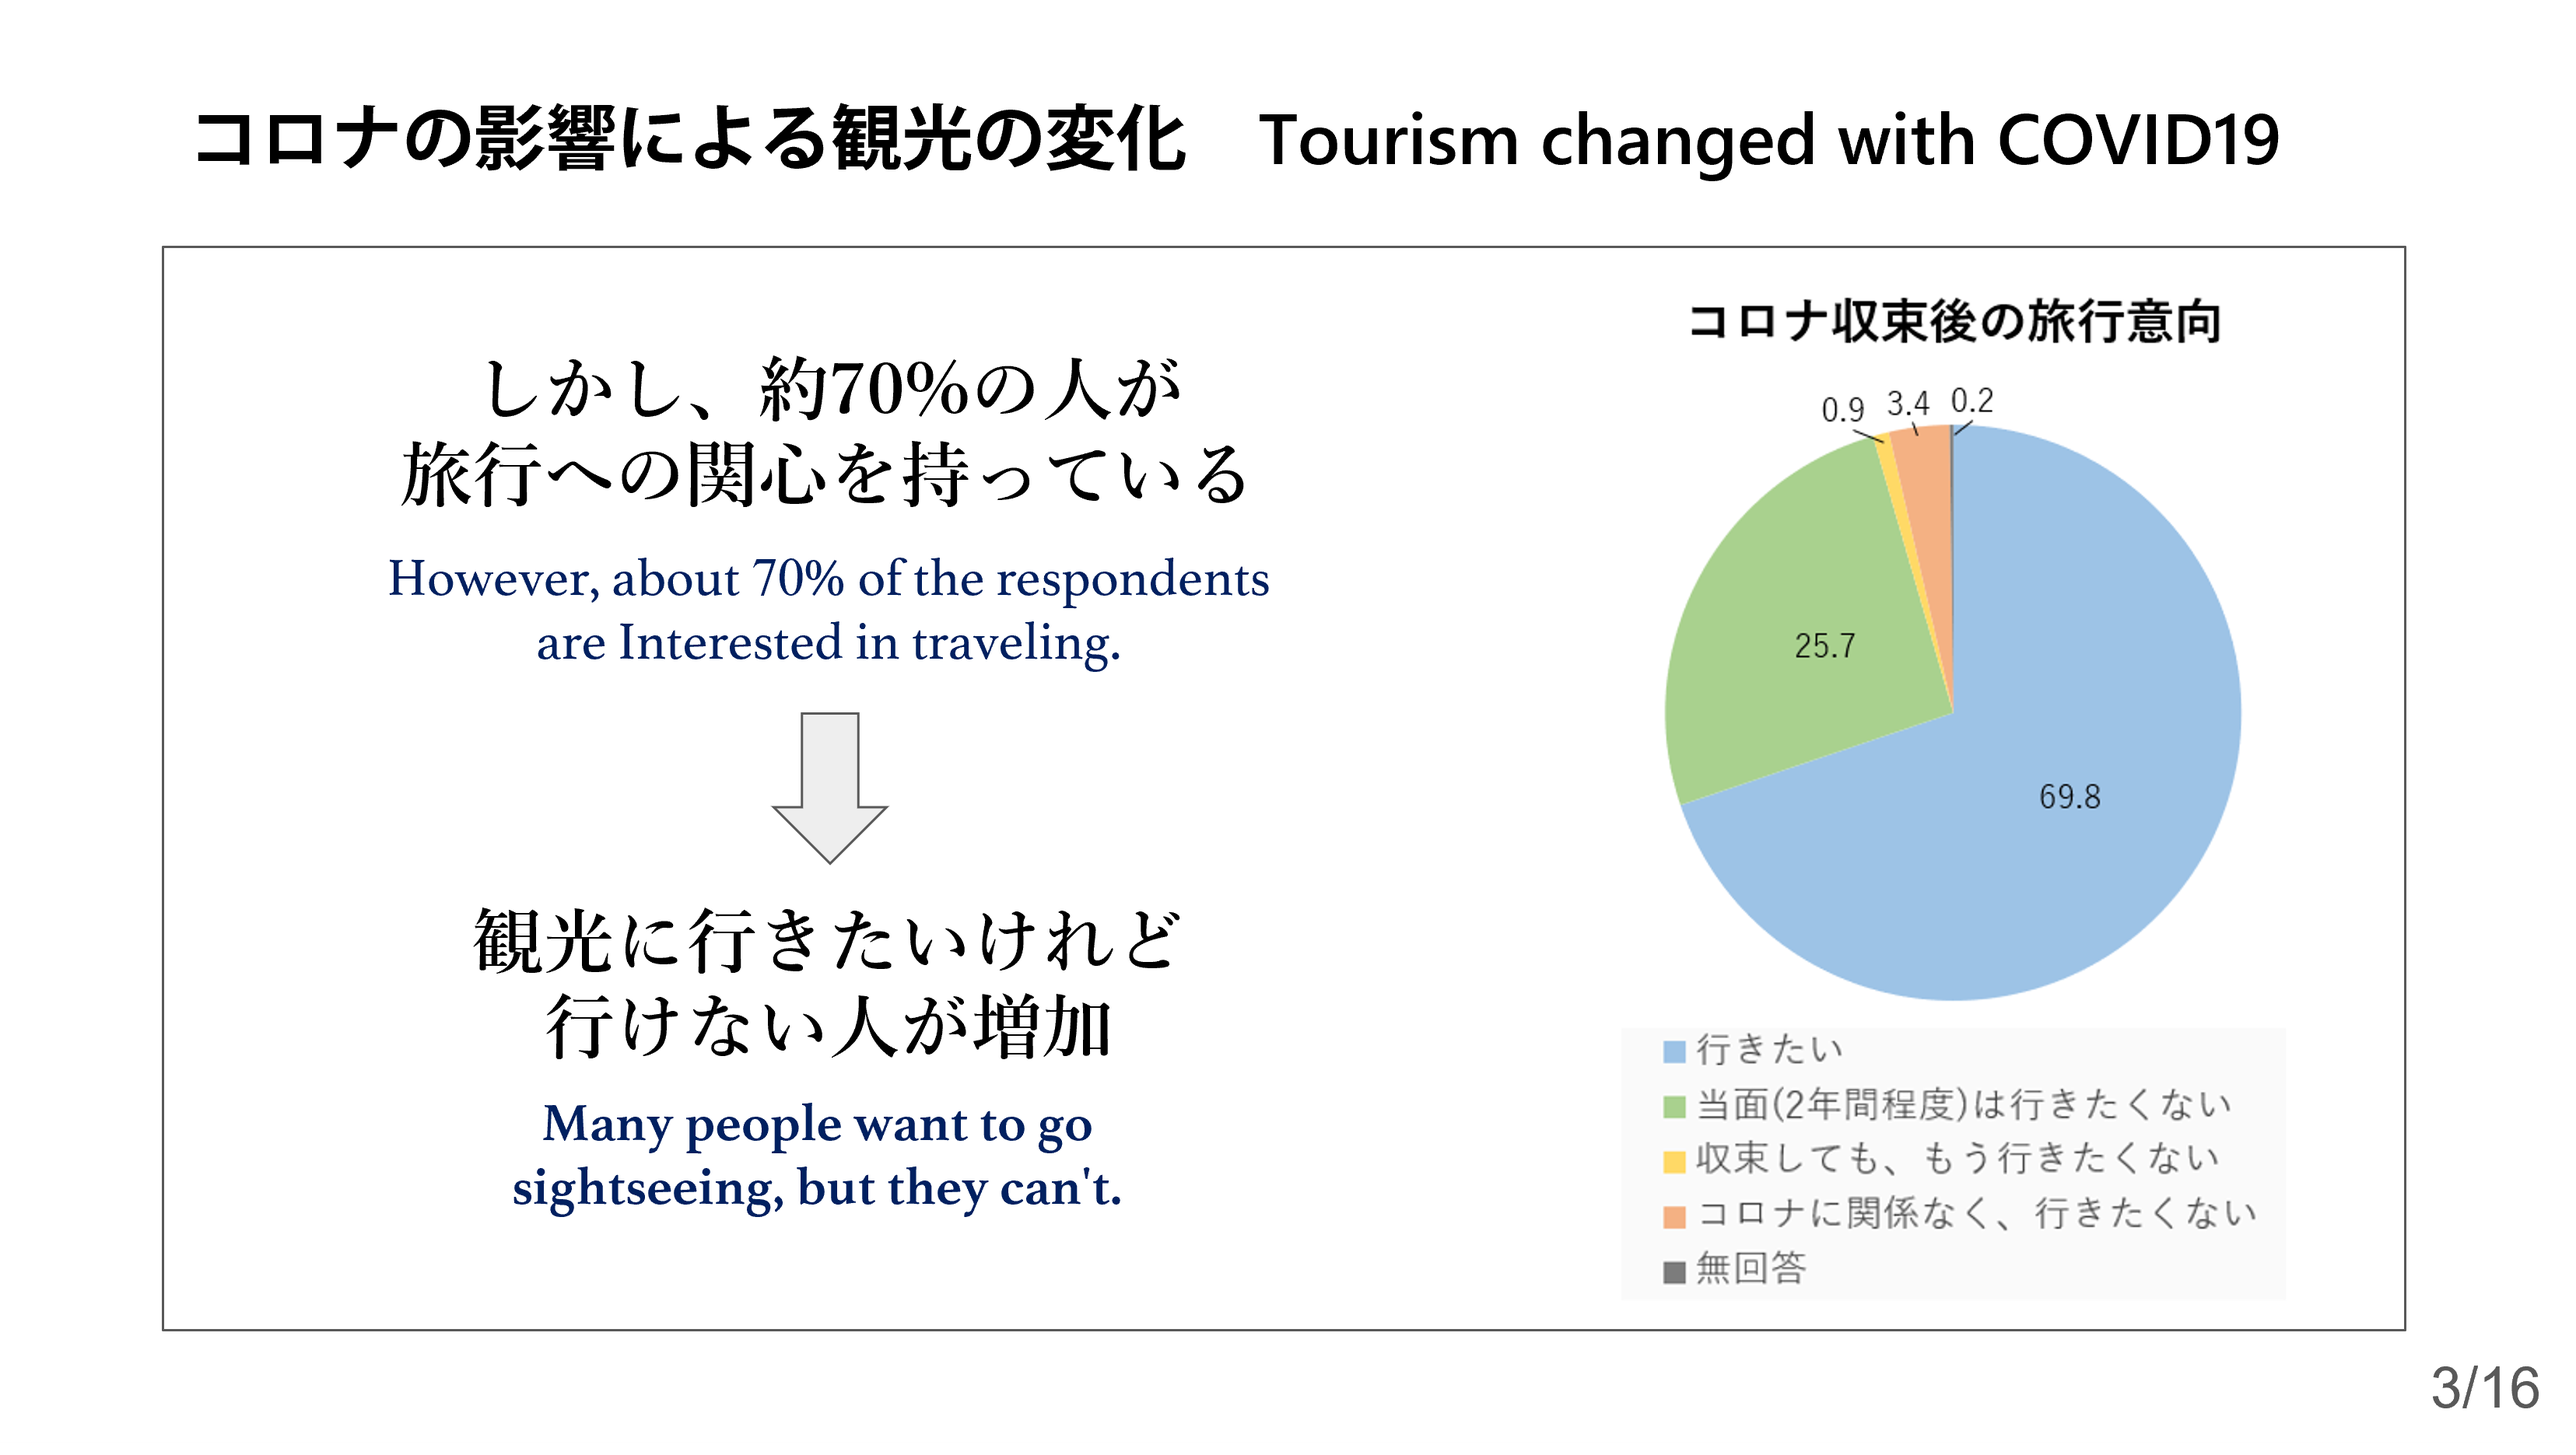
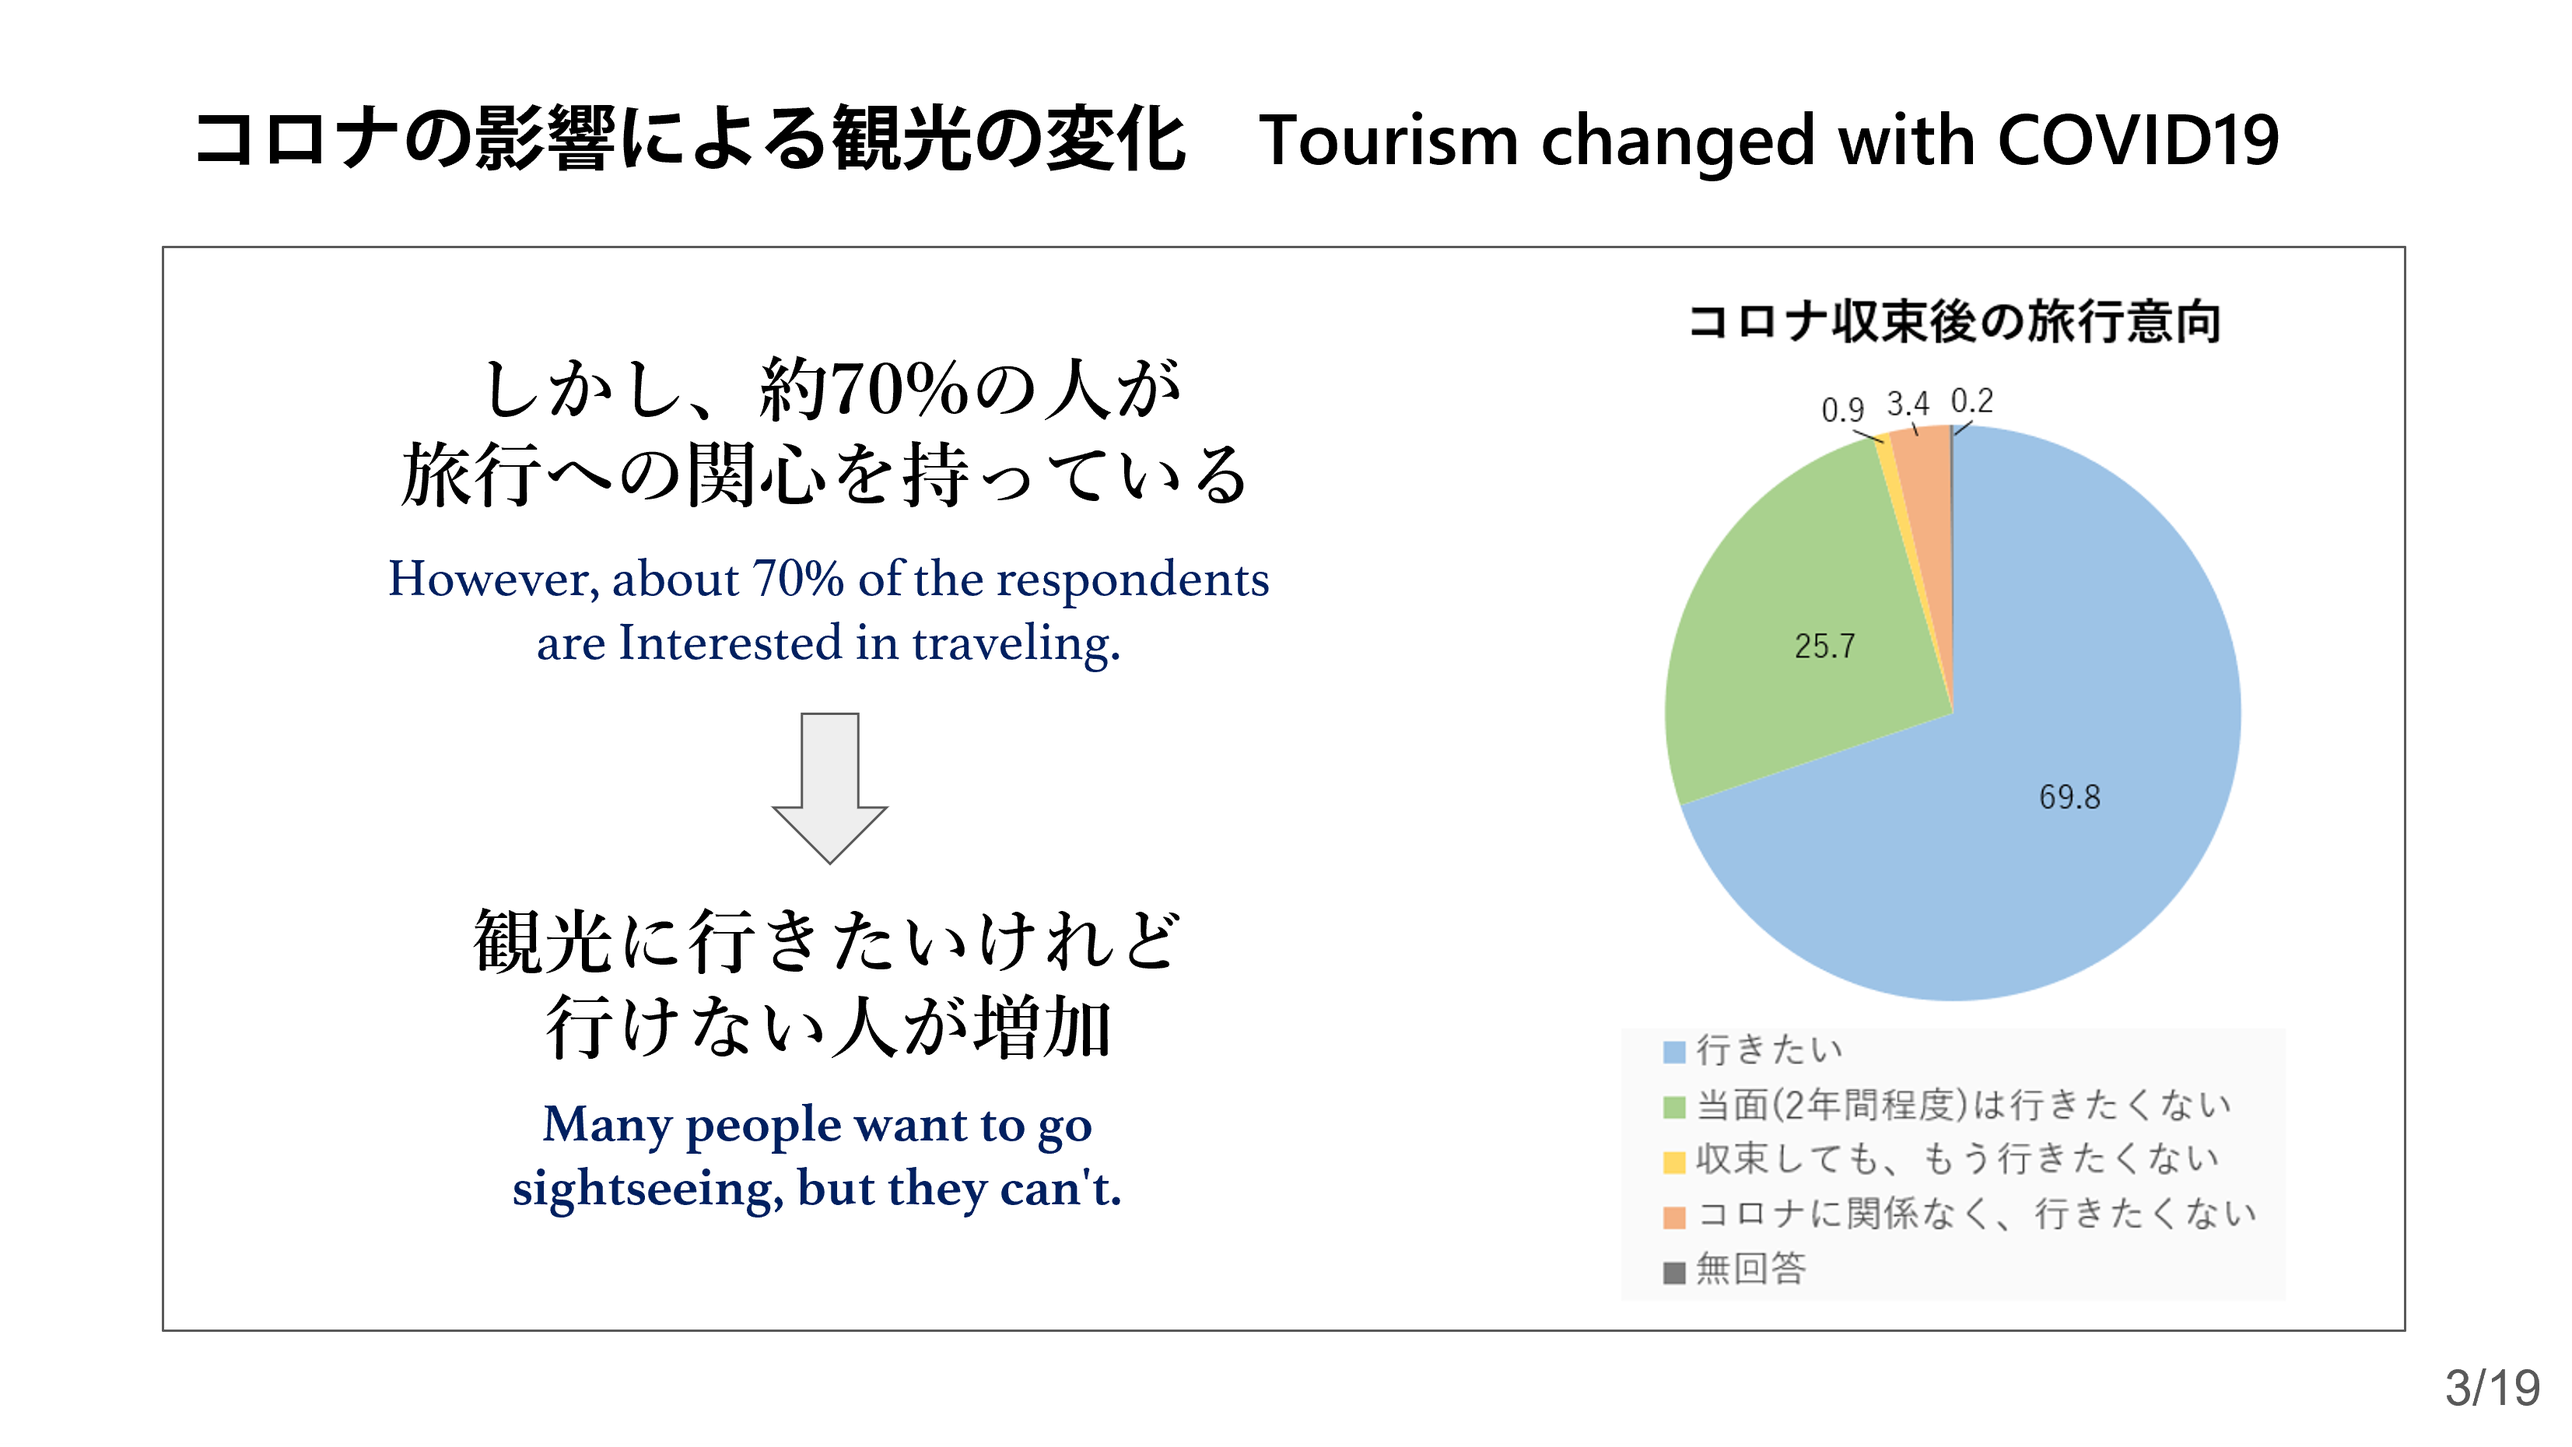
entabi_update

diff --git a/index.html b/index.html
@@ -88,6 +88,9 @@
                                         <img src="image/Entabi/14.png" width="100%" height="100%" alt="">
                                         <img src="image/Entabi/15.png" width="100%" height="100%" alt="">
                                         <img src="image/Entabi/16.png" width="100%" height="100%" alt="">
+                                        <img src="image/Entabi/17.png" width="100%" height="100%" alt="">
+                                        <img src="image/Entabi/18.png" width="100%" height="100%" alt="">
+                                        <img src="image/Entabi/19.png" width="100%" height="100%" alt="">
                                     </div>
                                     <div class="content1">
                                         <div class="detail">
@@ -115,7 +118,8 @@
                                             <p class="text">
                                                 <a href="https://xd.adobe.com/view/b120dcfc-5899-4d56-8728-3a0ceb4eef37-e473/">サイト</a>,　
                                                 <a href="https://drive.google.com/file/d/1-XVF3CFr0Juk_d5GFyv07DoyBGI24UoQ/view?usp=sharing">レポート</a>,　
-                                                <a href="https://drive.google.com/file/d/1Hz4I5L6wLFv7Jmd7-OONfCZfXtA7I3Nw/view?usp=sharing">動画</a>
+                                                <a href="https://drive.google.com/file/d/1Hz4I5L6wLFv7Jmd7-OONfCZfXtA7I3Nw/view?usp=sharing">動画</a>,　
+                                                <a href="https://drive.google.com/file/d/1bWuBSrB4ztFiYvlZ6lsFU4YxEbiFmnZ5/view?usp=sharing">個人レポート</a>
                                             </p>
                                         </div>
 
